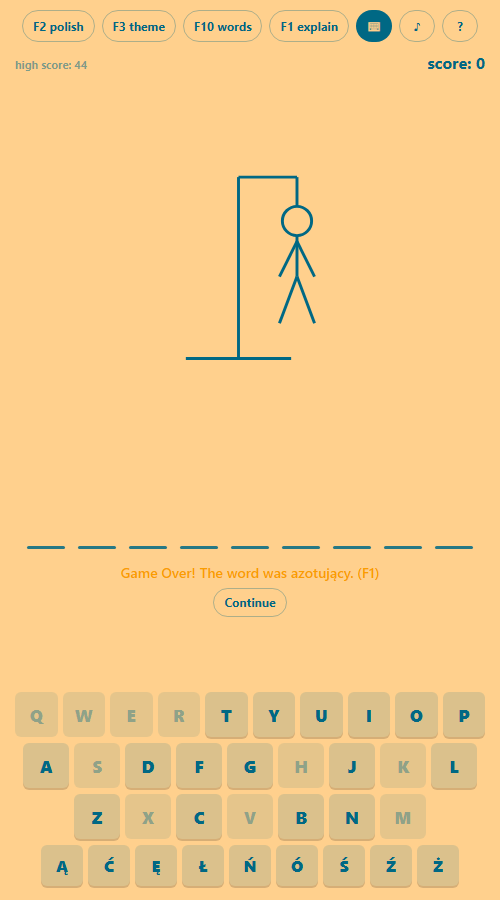
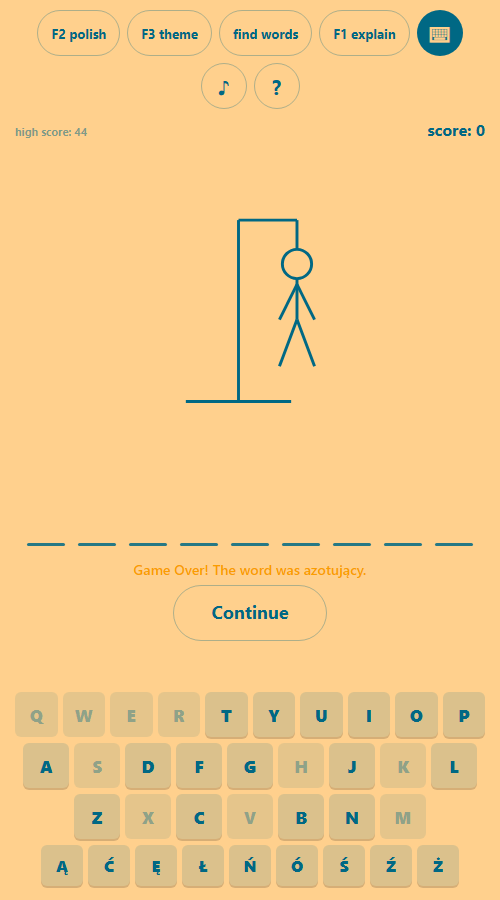
Phone: press-sized controls, a key-free end-of-word message, a bigger Continue
- hit/miss beeps swapped: a found letter gets the short high one
- the F10 hotkey is no longer printed on the word-finder button
- headless fixtures can report a coarse primary pointer (name them *-touch), and the
  probe now measures the top-bar controls, the end-of-word line and Continue

diff --git a/js/hangman-view.js b/js/hangman-view.js
@@ -57,8 +57,10 @@
 
   /* ------------------------------------------------------------ sound (beep) */
 
-  // winsound.Beep(300, 100) on a hit, winsound.Beep(800, 70) on a miss.
-  const BEEPS = { correct: [300, 100], wrong: [800, 70] };
+  // The desktop build beeps 300 Hz for 100 ms on a hit and 800 Hz for 70 ms on a
+  // miss. Those two are swapped here on request: a letter that was in the word gets
+  // the short high beep, a miss gets the low long one.
+  const BEEPS = { correct: [800, 70], wrong: [300, 100] };
 
   function createAudio() {
     let context = null;
@@ -281,12 +283,15 @@
 
     function renderMessage(snapshot) {
       const host = get("message");
+      // a phone has no Space key and no F1: the Continue button under the message is
+      // the whole affordance there, so the desktop hint is not repeated at it
+      const touch = root.matchMedia ? root.matchMedia("(pointer: coarse)").matches : false;
       host.textContent = "";
       host.classList.toggle("is-over", snapshot.gameOver);
       if (snapshot.win) {
         const line = document.createElement("div");
         line.className = "msg-line";
-        line.textContent = "Great!   Space to continue... (F1)";
+        line.textContent = touch ? "Great!" : "Great!   Space to continue... (F1)";
         const value = document.createElement("div");
         value.className = "msg-line msg-score";
         value.textContent = "Your score: " + snapshot.finalScore;
@@ -294,7 +299,8 @@
       } else if (snapshot.loss) {
         const line = document.createElement("div");
         line.className = "msg-line";
-        line.textContent = "Game Over! The word was " + snapshot.word.join("") + ". (F1)";
+        line.textContent =
+          "Game Over! The word was " + snapshot.word.join("") + (touch ? "." : ". (F1)");
         host.appendChild(line);
         if (snapshot.showScore) {
           const value = document.createElement("div");

diff --git a/index.html b/index.html
@@ -21,7 +21,7 @@
         <div class="controls">
           <button class="chip" id="btn-language" title="F2 — switch dictionary">F2&nbsp;&nbsp;english</button>
           <button class="chip" id="btn-theme" title="F3 — next palette (13 of them)">F3 theme</button>
-          <button class="chip" id="btn-find" title="F10 — how many words still fit">F10 words</button>
+          <button class="chip" id="btn-find" title="how many dictionary words still fit this pattern">find words</button>
           <button class="chip" id="btn-explain" title="F1 — explain the word" disabled>F1 explain</button>
           <button class="chip icon" id="btn-kbd" title="on-screen keyboard: auto">⌨</button>
           <button class="chip icon" id="btn-sound" title="sound: on">♪</button>

diff --git a/styles.css b/styles.css
@@ -573,9 +573,25 @@ textarea {
     font-size: 11px;
   }
 
+  /* touch targets: the icon chips in particular have to be pressable with a thumb,
+     and the only way forward after a word ends is the Continue button */
   .chip {
-    font-size: 12px;
-    padding: 6px 10px;
+    font-size: 13px;
+    padding: 9px 13px;
+    min-height: 40px;
+  }
+
+  .chip.icon {
+    width: 46px;
+    min-height: 46px;
+    padding: 0;
+    font-size: 21px;
+  }
+
+  .chip-continue {
+    font-size: 18px;
+    padding: 15px 38px;
+    min-height: 54px;
   }
 }
 

diff --git a/README.md b/README.md
@@ -50,11 +50,13 @@ There is no build step and no server is required.
 
 ## what is deliberately different
 
-- **The layout is not the pygame window's.** Every control — F2 language, F3 theme, F10
-  word finder, F1 explain, and the keyboard / sound / help toggles — is in one row along
-  the top, with the score and the high score at its right end. The word being guessed is
-  the largest element at every screen size; the gallows and the letters already tried are
-  drawn smaller around it.
+- **The layout is not the pygame window's.** Every control — language, theme, word finder,
+  explain, and the keyboard / sound / help toggles — is in one row along the top, with the
+  score and the high score at its right end; the word finder's F10 hotkey is not printed
+  on its button, it is only listed in the Keys panel. On a phone the same controls are
+  sized for a thumb: the icon buttons are 46 px squares with 21 px glyphs. The word being
+  guessed is the largest element at every screen size; the gallows and the letters already
+  tried are drawn smaller around it.
 - **The word takes the room it is given.** The slot pitch is the width of the play area
   divided by the number of letters in the word on the board, limited by a share of the
   screen height and by 110 px; the letter size is then measured against the widest glyph
@@ -69,6 +71,14 @@ There is no build step and no server is required.
   is played to the end, and Space, Enter or the Continue button deal the next one only
   once it is won or lost. Reloading the page picks the word in progress straight back up,
   because the state is written after every key press.
+- **On a touch device the end of a word is a button, not a sentence.** Where the primary
+  pointer is coarse, the win line is just `Great!` and the loss line does not carry the
+  `(F1)` marker — there is no Space and no F1 to press. The Continue button takes the
+  whole affordance: 55 px tall and 18 px of text, against 33 px and 13 px on a desktop.
+  A narrow desktop window keeps the key hints, because the keys are really there.
+- **The two beeps are swapped.** The desktop game calls `Beep(300, 100)` when a letter was
+  in the word and `Beep(800, 70)` when it was not; here a found letter gets the short high
+  beep and a miss gets the low long one, which is the way it reads.
 - **The on-screen keyboard sits at the bottom and replaces the "letters you tried"
   line** while it is shown — it already shows every letter used, greyed the same way
   whether it was in the word or not. With a physical keyboard in play that line stays.
@@ -86,22 +96,25 @@ There is no build step and no server is required.
 node tools/verify-parity.mjs
 ```
 
-82 checks over nine areas: the dictionary payloads and filter, the word-finder scan,
+86 checks over nine areas: the dictionary payloads and filter, the word-finder scan,
 all 13 palettes, the game rules, the saved-file format, Polish collation, page wiring,
 and the interface rules above (one used-letter state, the keyboard replacing the tried
 list, no restart control, all controls and the score in the top bar, the word sized to
 the space it is given and measured against the widest glyph, a filled slot drawing no
-bar, everything else smaller than the word). The expected values were measured by running
-the upstream Python over these exact dictionary files.
+bar, the two beeps swapped, touch-sized controls and a touch-sized Continue button, an
+end-of-word message that mentions no keys on a touch device, no F10 printed on a button,
+everything else smaller than the word). The expected values were measured by running the
+upstream Python over these exact dictionary files.
 
 `node tools/qa-probe.mjs` prints what the running page actually measures: box geometry
 for the app, the play area, the word row and the keyboard, the state a reload would find
 in `localStorage`, the computed opacity of a filled slot's bar, whether the page scrolls,
-and — after playing six words out and dealing new ones — a sample per word of
-`[letters, slot pitch, letter size, row width]`. Each word must get a bigger size than a
-longer one, every row must stay inside the play area (`rowShareOfPlayArea` below 1), no
-glyph may reach past its slot, the filled slot's bar must read `0`, and the page must not
-scroll.
+the size of every control in the top bar, the end-of-word line as the page wrote it and
+the size of the Continue button, and — after playing six words out and dealing new ones —
+a sample per word of `[letters, slot pitch, letter size, row width]`. Each word must get
+a bigger size than a longer one, every row must stay inside the play area
+(`rowShareOfPlayArea` below 1), no glyph may reach past its slot, the filled slot's bar
+must read `0`, the page must not scroll, and a phone's icon buttons must measure 46 px.
 
 ### screenshots
 
@@ -114,6 +127,12 @@ msedge --headless=new --disable-gpu --no-first-run --hide-scrollbars \
   --window-size=1280,800 --virtual-time-budget=25000 \
   --screenshot=qa/desktop-mid.png file:///…/_qa_mid.html
 ```
+
+Headless Chromium always reports a fine primary pointer whatever the window size, so a
+fixture name ending in `-touch` (`win-touch`, `lost-touch`) seeds the same board with
+`matchMedia("(pointer: coarse)")` stubbed to true — the only way to see the touch
+end-of-word message in these shots. The phone images in `qa/` come from those, at
+`--window-size=500,900`.
 
 Headless Chromium will not make its window narrower than about 491 CSS px, so phone
 shots are taken at `--window-size=500,900`; a true 390 px viewport needs DevTools
